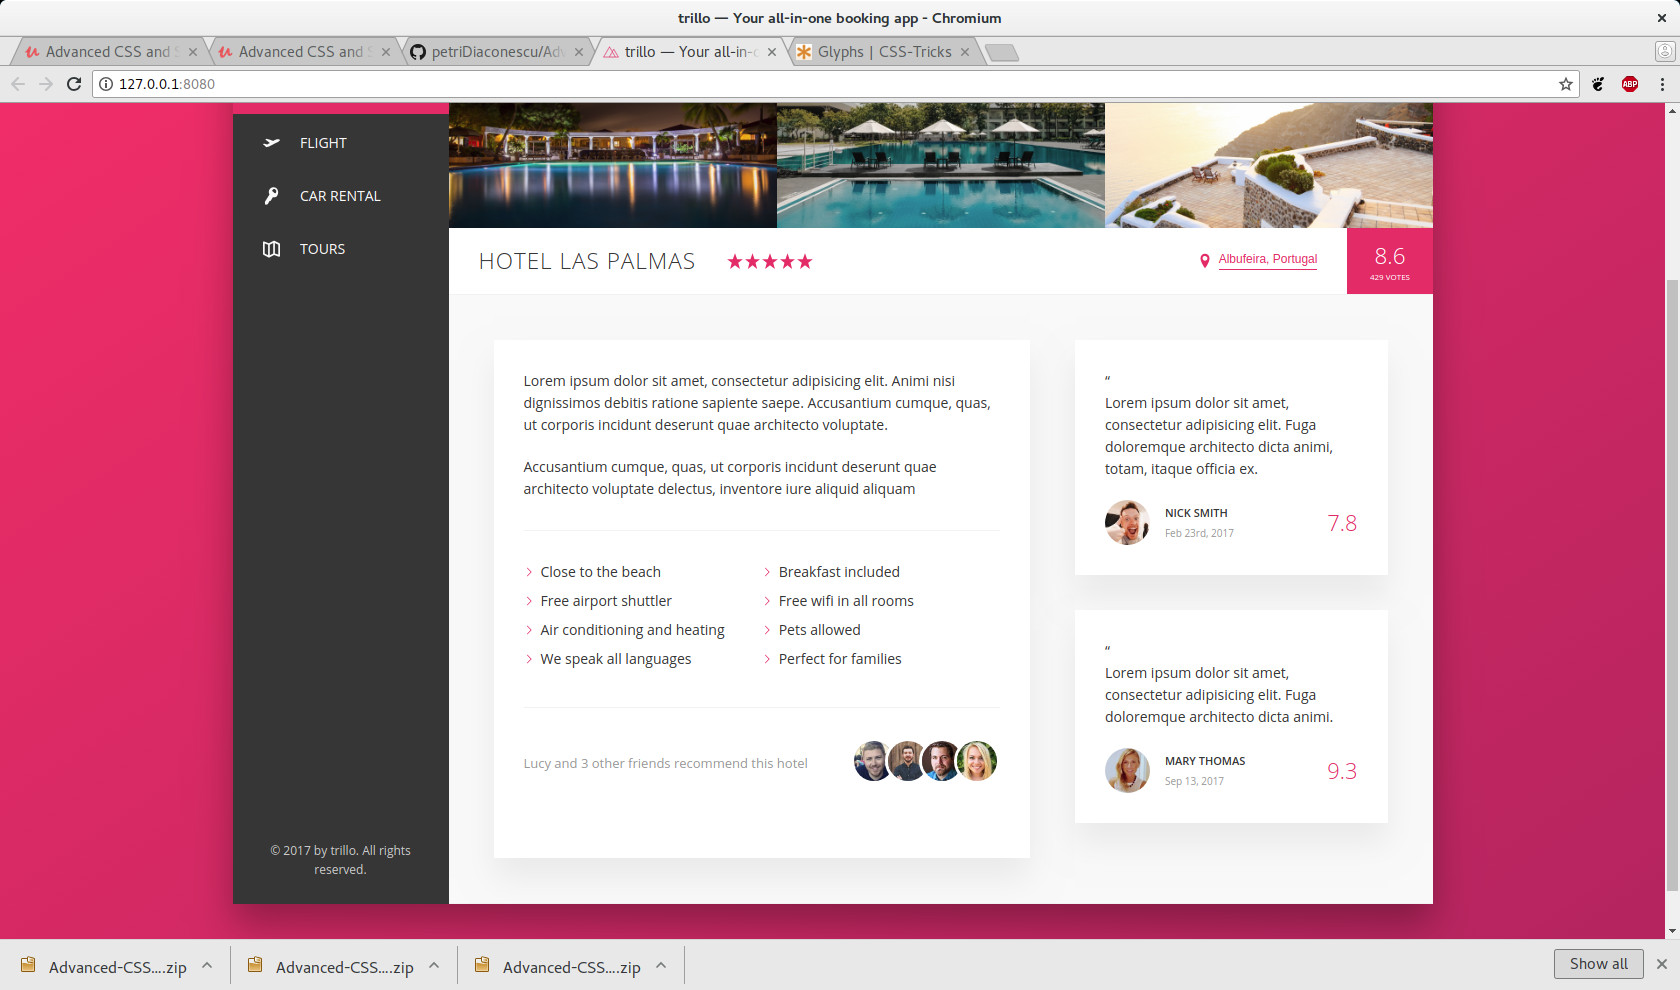
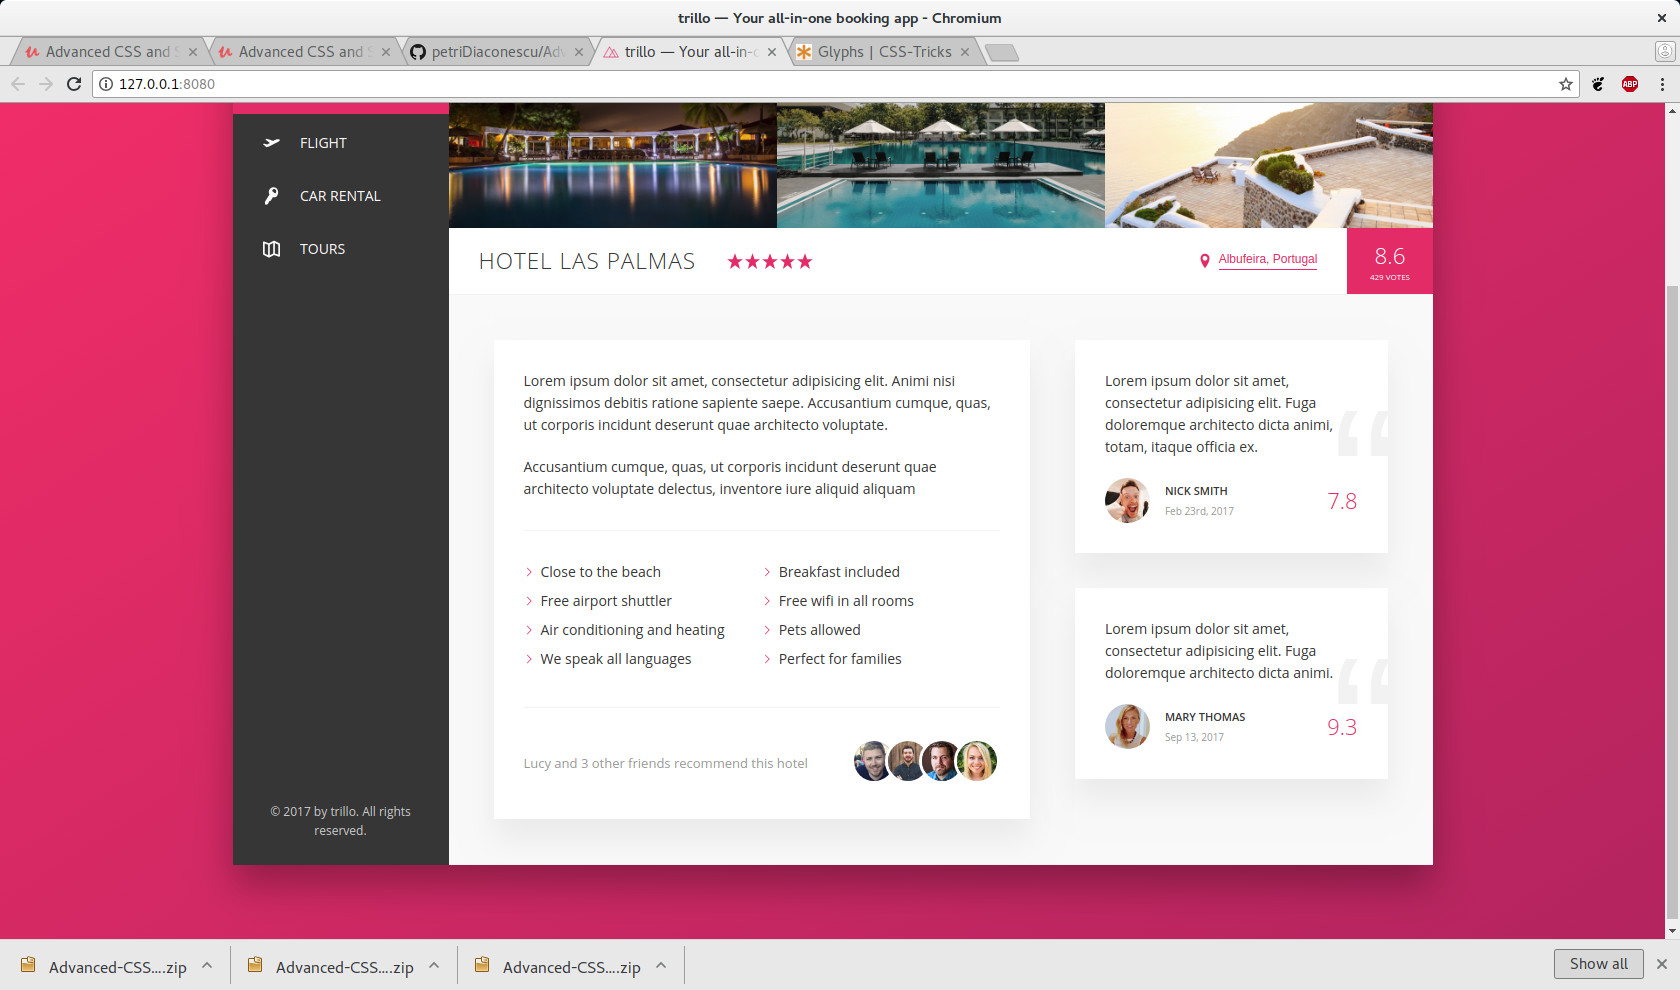
Tweak the style of pseudo before element for better look.

diff --git a/sass/_components.scss b/sass/_components.scss
@@ -431,8 +431,9 @@
   &::before {
     content: "\201C";
     position: absolute;
-    top: -2rem;
-    right: -1rem;
+    top: -2.75rem;
+    left: -1rem;
+    line-height: 1;
     font-size: 20rem;
     color: var(--color-grey-light-2);
     font-family: sans-serif;
